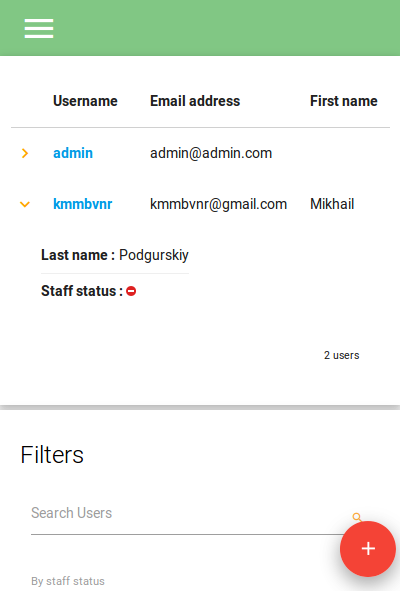
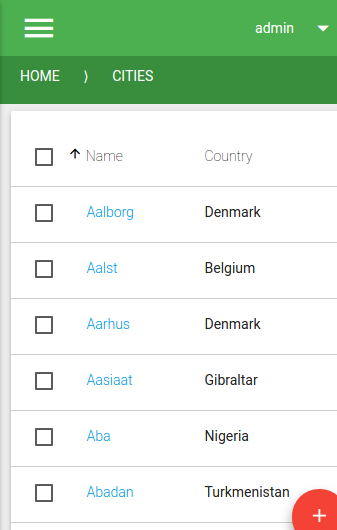
Update webste

diff --git a/demo/templates/index.html b/demo/templates/index.html
@@ -335,10 +335,10 @@ global urls.
                                            <a target="_blank" href="/admin/"><img class="responsive-img" src="{% static 'img/admin_main.png' %}"></a>
                                        </li>
                                        <li>
-                                           <a target="_blank" href="/admin/auth/user/"><img class="responsive-img" src="{% static 'img/admin_list.png ' %}"></a>
+                                           <a target="_blank" href="/admin/integration/city/"><img class="responsive-img" src="{% static 'img/admin_list.png ' %}"></a>
                                        </li>
                                        <li>
-                                           <a target="_blank" href="/admin/auth/user/1/"><img class="responsive-img" src="{% static 'img/admin_change.png' %}"></a>
+                                           <a target="_blank" href="/admin/integration/city/2483/"><img class="responsive-img" src="{% static 'img/admin_change.png' %}"></a>
                                        </li>
                                        <li>
                                            <a target="_blank" href="/admin/login/"><img class="responsive-img" src="{% static 'img/admin_login.png' %}"></a>
@@ -361,7 +361,7 @@ global urls.
                                <div class="col s12 m6 l6">
                                    <div class="card">
                                        <div class="card-image">
-                                           <a target="_blank" href="/admin/auth/user/">
+                                           <a target="_blank" href="/admin/integration/city/">
                                                <img src="{% static 'img/admin_list_mobile.png' %}">
                                            </a>
                                        </div>
@@ -370,7 +370,7 @@ global urls.
                                <div class="col s12 m6 l6">
                                    <div class="card">
                                        <div class="card-image">
-                                           <a target="_blank" href="/admin/auth/user/1/">
+                                           <a target="_blank" href="/admin/integration/city/2483/">
                                                <img src="{% static 'img/admin_change_mobile.png' %}">
                                            </a>
                                        </div>

diff --git a/demo/templates/admin/base_site.html b/demo/templates/admin/base_site.html
@@ -12,7 +12,7 @@
 {% block extrajs %}
 {% if user.is_anonymous %}
 <script type="text/javascript">
-toast('Use  admin:admin  to log into administration interface', 100000, 'alert-error');
+Materialize.toast('Use  admin:admin  to log into administration interface', 100000, 'alert-error');
 </script>
 {% endif %}
 {% endblock %}
